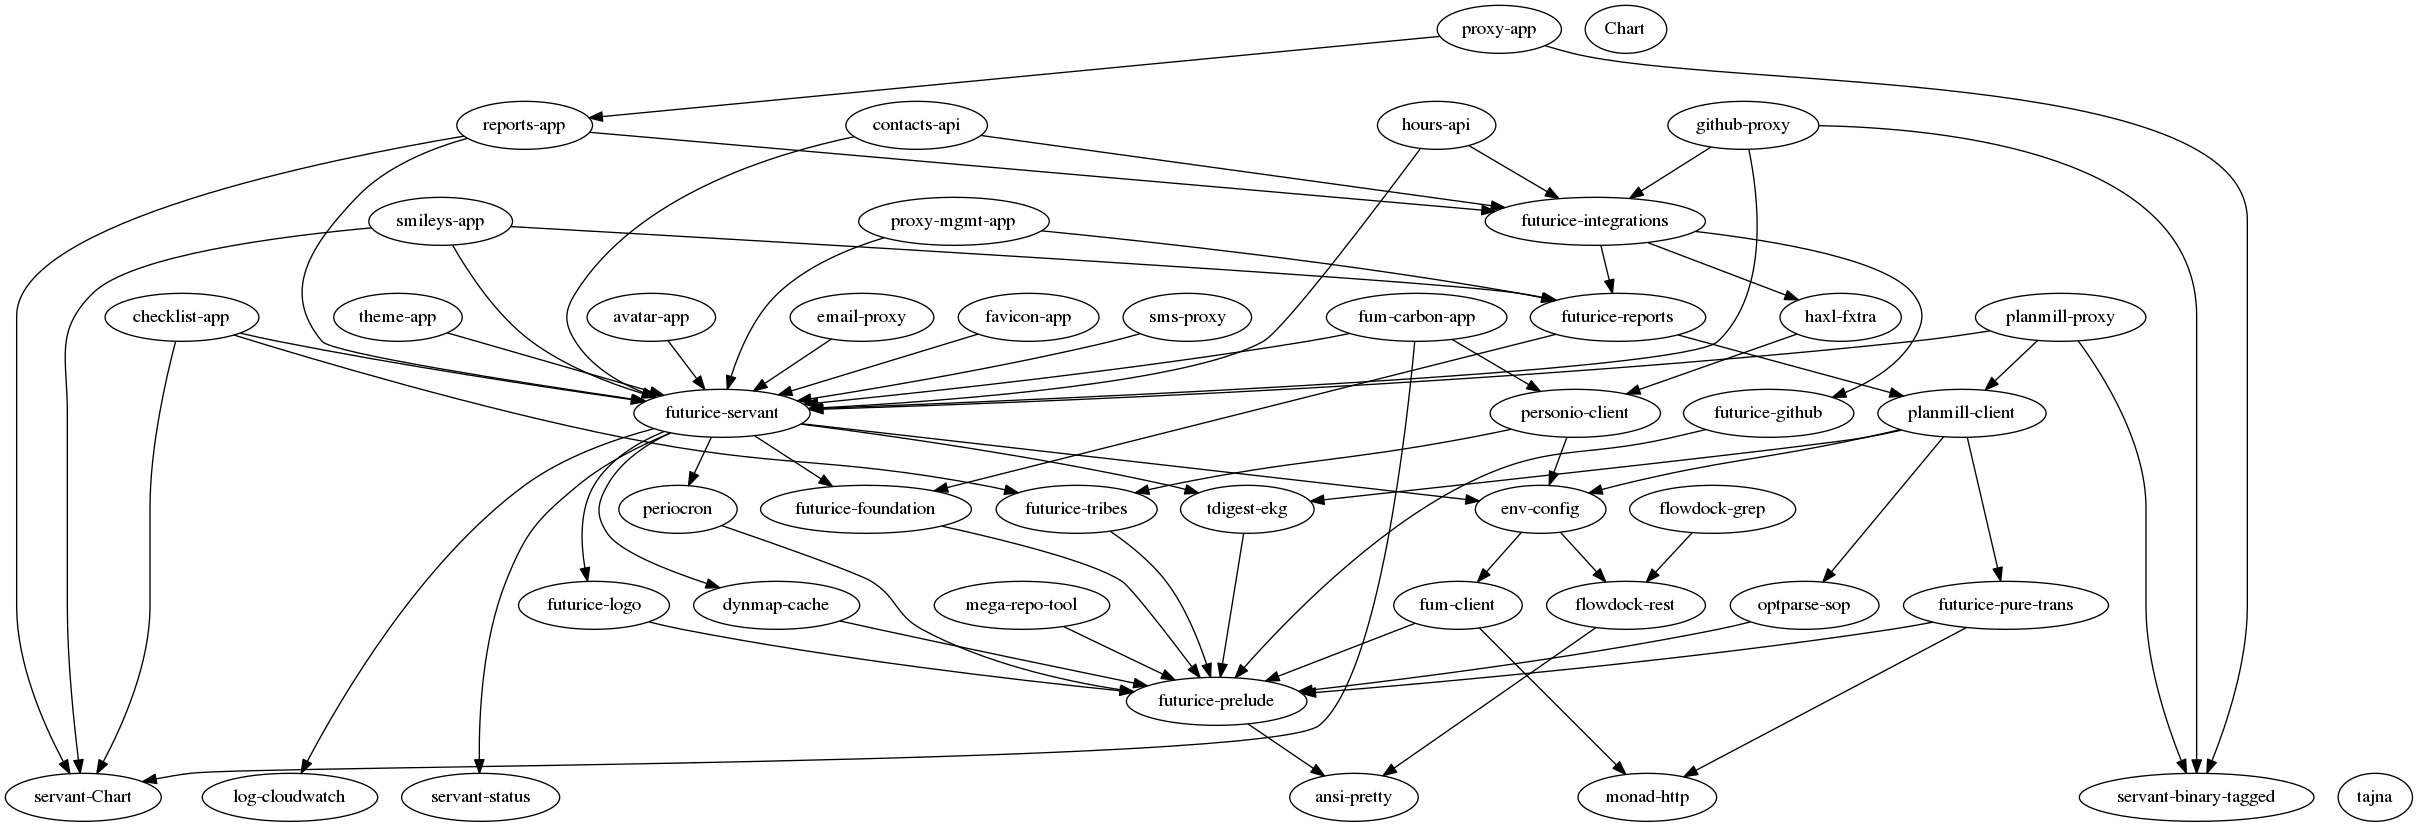
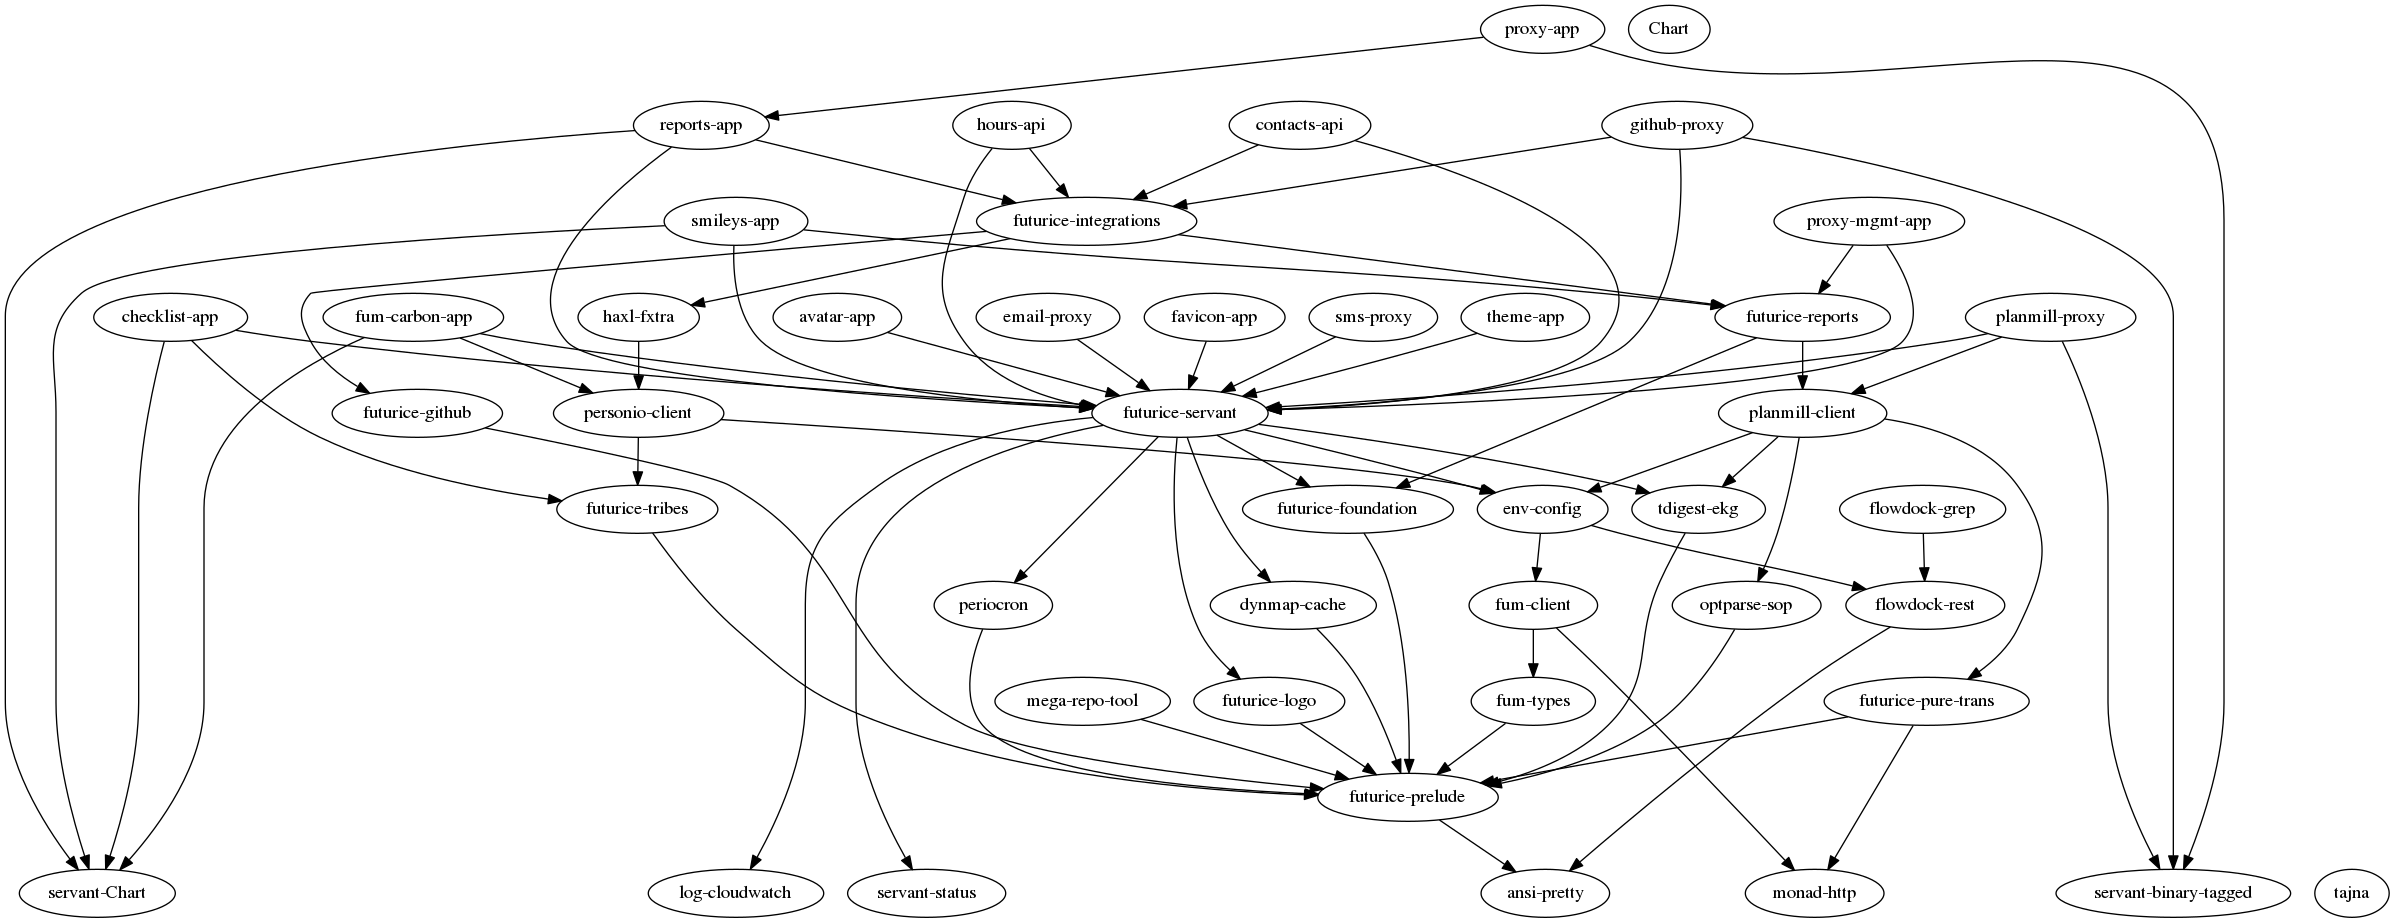
fum-client-types -> fum-types

diff --git a/fum-types/README.md b/fum-types/README.md
@@ -1,0 +1,6 @@
+# fum-client-types
+
+At the moment:
+
+- `Login` - the type we need virtually everywhere
+- `GroupName`
